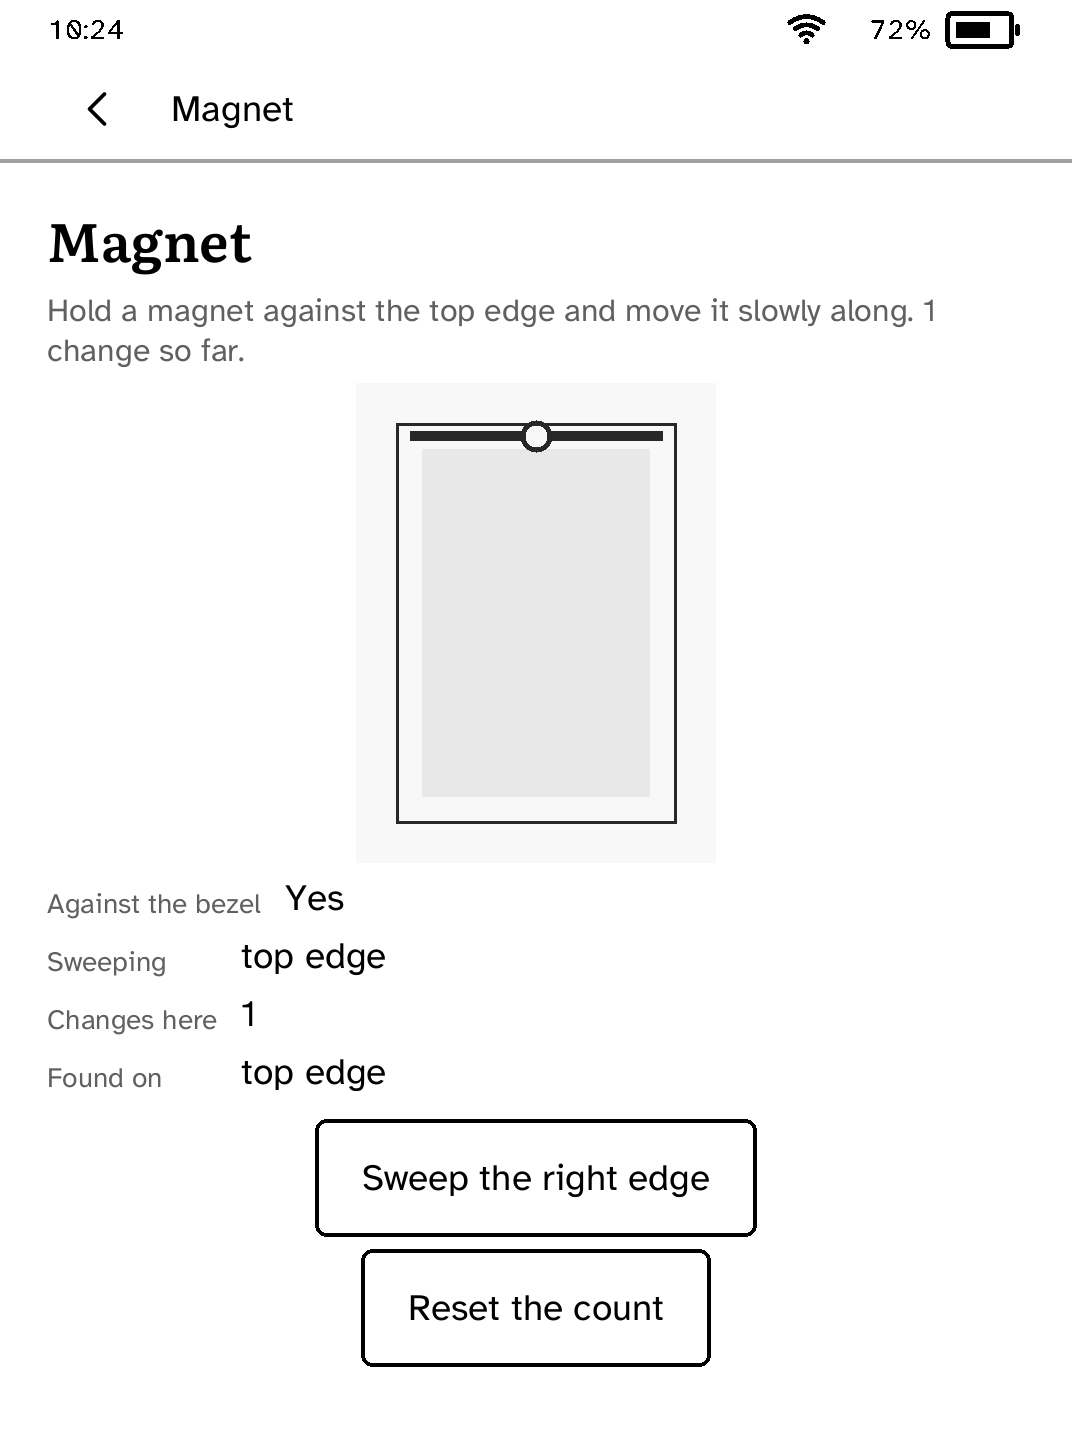
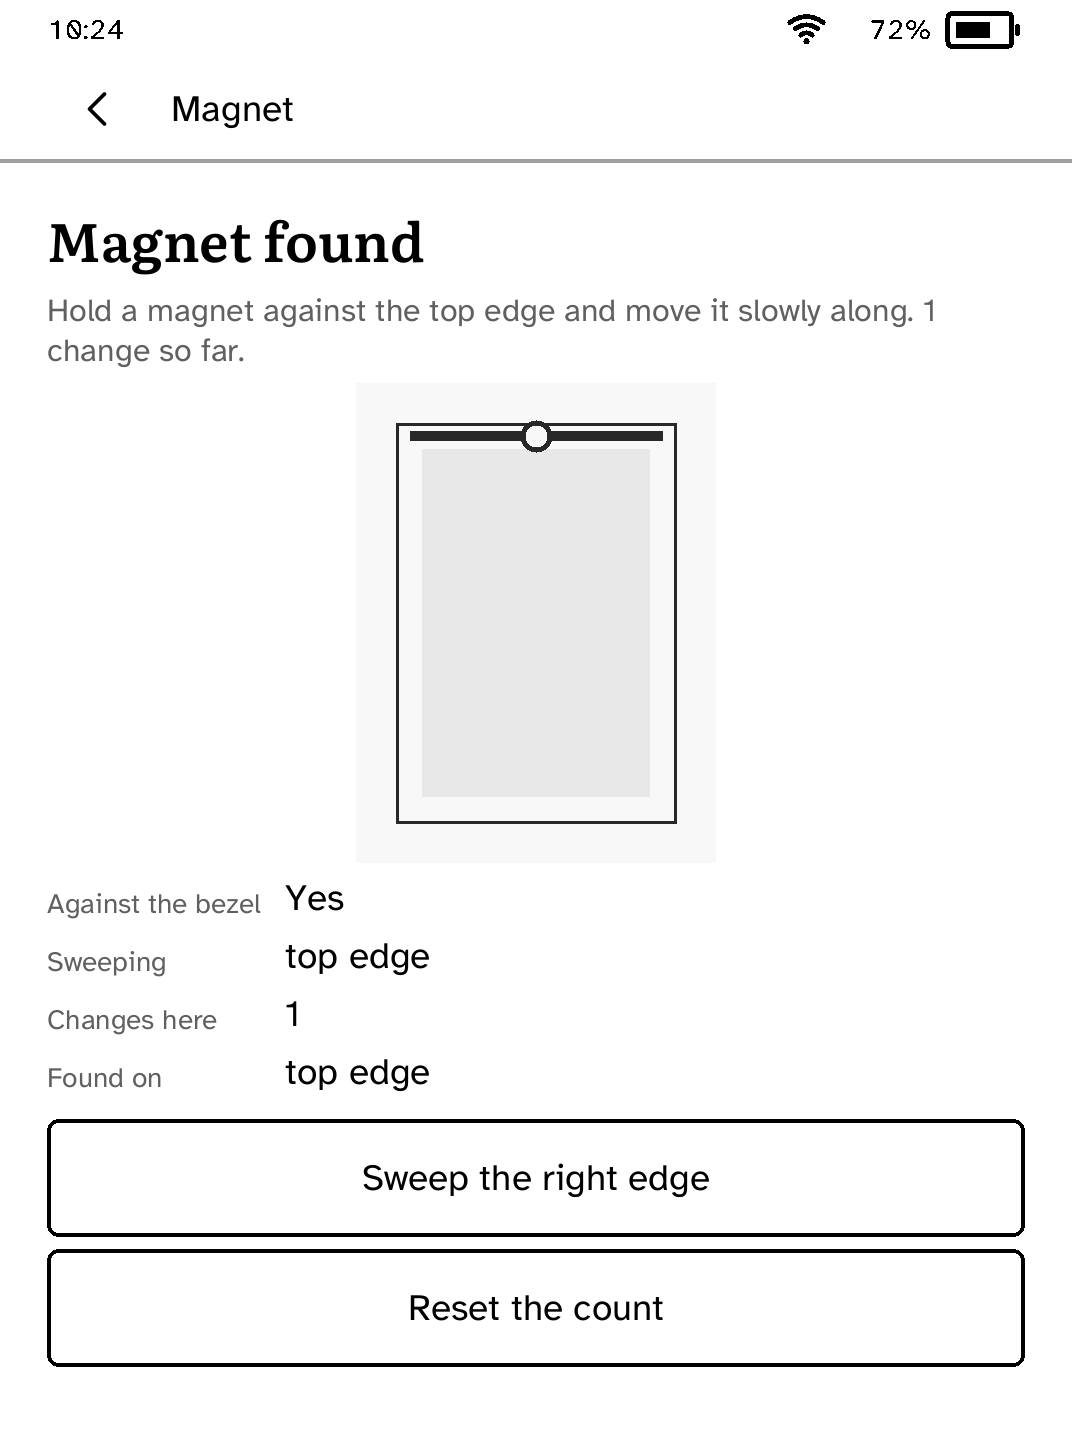
Head Magnet's found state Magnet found rather than the app's name again

diff --git a/docs/apps/magnet/index.html b/docs/apps/magnet/index.html
@@ -118,7 +118,7 @@
   </section>
   <section class="whats-new">
     <h2>New in 1.0.13</h2>
-    <p>The four readings line up in one column.</p>
+    <p>The four readings line up in one column, and a magnet against the bezel is headed Magnet found.</p>
   </section>
   <section class="panel get-cobalt" id="setup-panel">
     <div class="get-cobalt-copy">

diff --git a/examples/magnet/src/main.rs b/examples/magnet/src/main.rs
@@ -236,8 +236,10 @@ impl Magnet {
             // against the bezel.
             Sensor::Watching { magnet_present } => {
                 let mut screen = builder
+                    // "Magnet found" rather than "Magnet", which only said
+                    // the bar's title a second time in larger type.
                     .heading(if magnet_present {
-                        "Magnet"
+                        "Magnet found"
                     } else {
                         "No magnet"
                     })
@@ -452,6 +454,20 @@ mod tests {
         let text = format!("{screen:?}");
         assert!(text.contains("Asking the sensor"), "{text}");
         assert!(!text.contains("No magnet"), "{text}");
+    }
+
+    #[test]
+    fn a_magnet_against_the_bezel_is_named_as_found_rather_than_by_the_app_name() {
+        let screen = watching(true).screen(Some(drawn()));
+        let headings: Vec<String> = screen
+            .nodes
+            .iter()
+            .filter_map(|node| match node {
+                kobo_sdk::Node::Heading { text, .. } => Some(text.clone()),
+                _ => None,
+            })
+            .collect();
+        assert_eq!(headings, ["Magnet found"]);
     }
 
     #[test]
